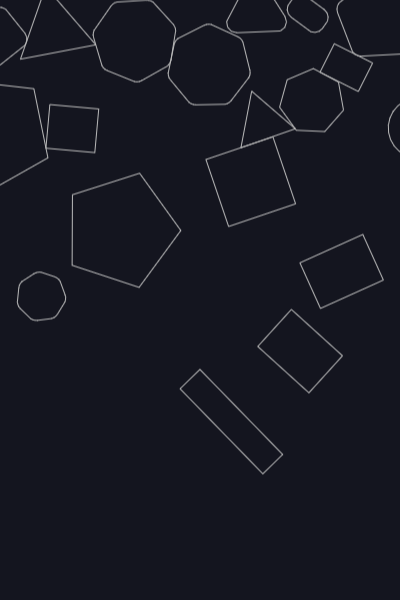
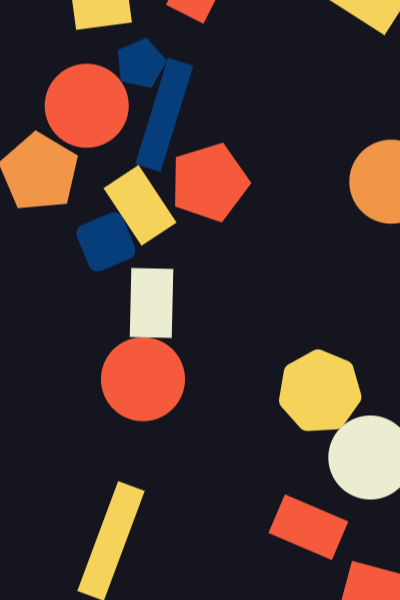
toggle wireframe

diff --git a/30physics/physics.js b/30physics/physics.js
@@ -19,7 +19,8 @@ const render = Render.create({
   engine: engine,
   options: {
     width: window.innerWidth,
-    height: window.innerHeight
+    height: window.innerHeight,
+    wireframes: false
   }
 });
 
@@ -33,6 +34,7 @@ var settings = {
     engine.gravity.x = 0;
     engine.gravity.y = 1;
   },
+
   addNBodies: 1,
   addedBodies: 0,
   bodyW: 50,
@@ -48,6 +50,11 @@ var settings = {
       Composite.add(world, createBody(200, 200));
     }
   },
+
+  toggleWireframe: () => {
+    render.options.wireframes = !render.options.wireframes;
+  },
+
   refresh: () => {
     window.location.reload();
   }
@@ -115,6 +122,7 @@ gravityFolder.add(settings, "resetGravity").name("Reset");
 gravityFolder.open();
 
 const bodyFolder = gui.addFolder("Body");
+bodyFolder.add(settings, "toggleWireframe").name("Toggle Wireframe");
 bodyFolder.add(settings, "addNBodies", 1, 10, 1).name("n Bodies").listen();
 bodyFolder.add(settings, "bodyH", 15, 150, 1).name("Height").listen();
 bodyFolder.add(settings, "bodyW", 15, 150, 1).name("Wdith").listen();
